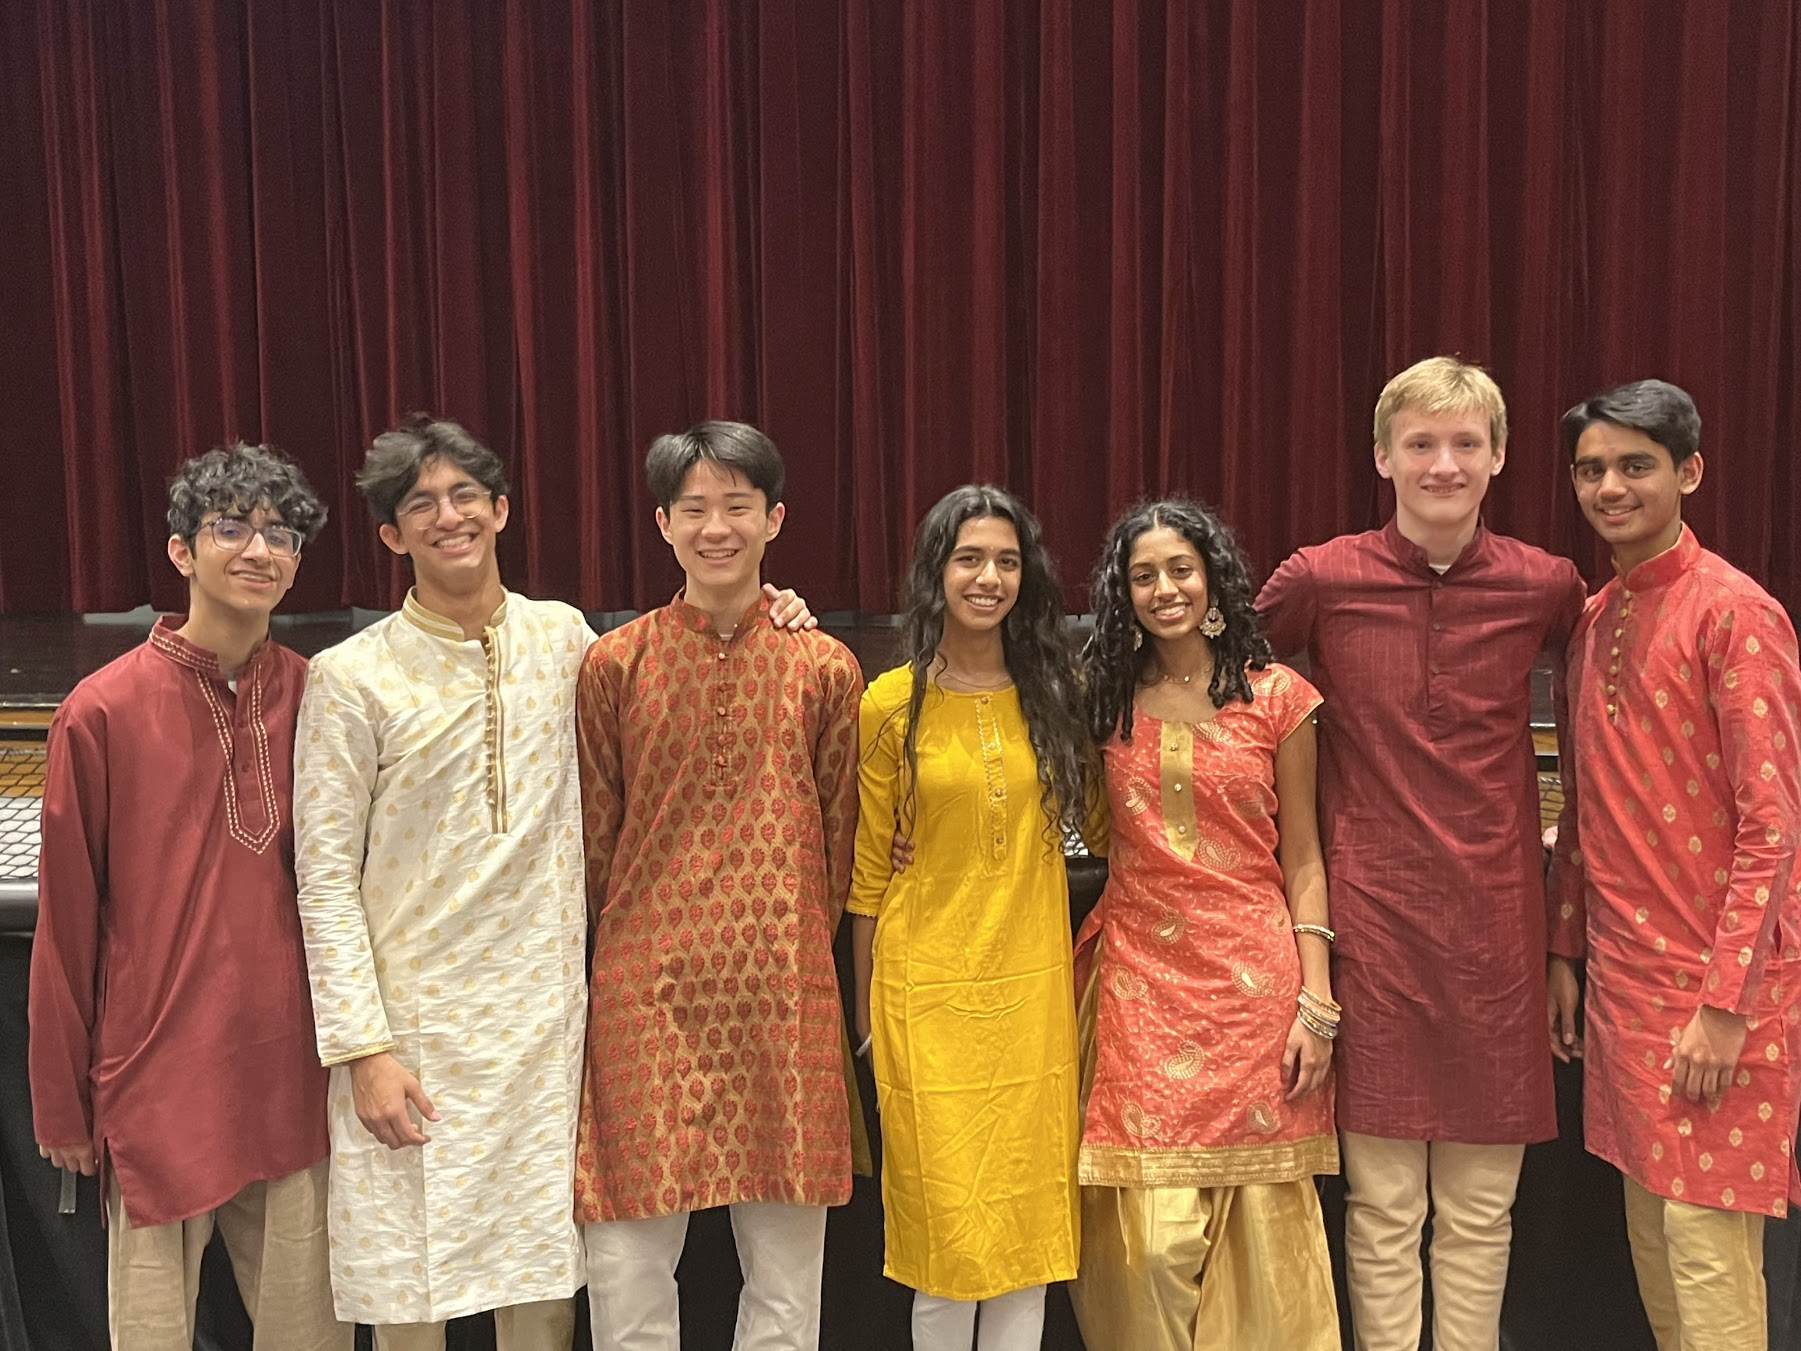
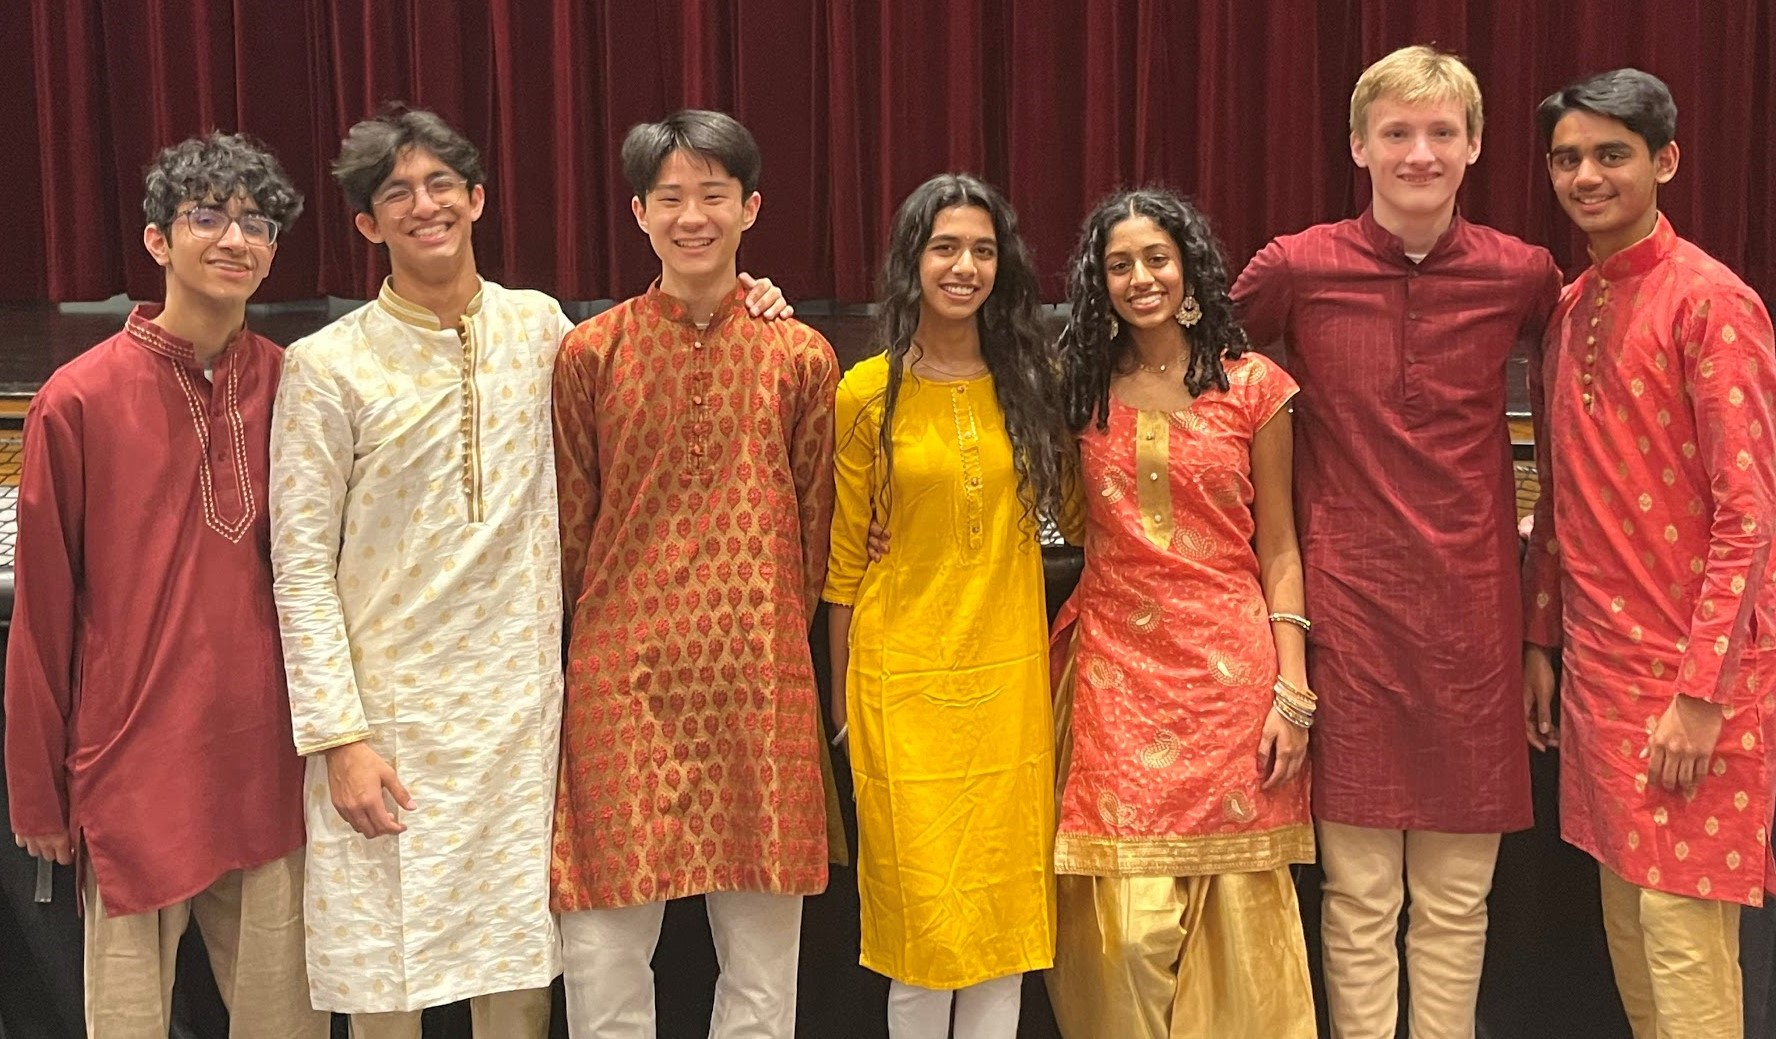
intro animation v1

diff --git a/basementPplWebsite/style.css b/basementPplWebsite/style.css
@@ -6,9 +6,9 @@ body {
   background-color: #fff;
   height: 100%;
   width: 100%;
-  background-image: linear-gradient(60deg, #ff0000, #ffa500, #ffff00);
+  background-image: linear-gradient(60deg, #ffff00, #ffa500, #ff0000);
   background-size: 600% 600%;
-  animation: bgAnimatedGradient 15s infinite linear;
+  animation: bgAnimatedGradient 10s infinite linear;
 }
 @keyframes bgAnimatedGradient {
   0% {
@@ -23,25 +23,51 @@ body {
 }
 h1 {
   text-align: center;
-  padding: 25%;
+  padding: 100%;
   margin: 0%;
   font-family: "roboto", sans-serif;
-  letter-spacing: 6px;
+  letter-spacing: 10px;
   font-size: 4vw;
   color: white;
 }
-p.title {
+.title {
   font-family: "Poppins", sans-serif;
   margin: 0;
   padding: 0;
   text-shadow: #fff;
   text-align: center;
   font-weight: bold;
-  font-size: 78px;
+  font-size: 100px;
+  position: relative;
+  bottom: 4720px;
 }
-.pic {
-  width: 900px;
-  border-radius: 25px;
-  float: left;
-  margin-right: 10px;
+.image__home {
+  display: block;
+  margin-left: auto;
+  margin-right: auto;
+  position: relative;
+  bottom: 3850px;
+  animation: piccrop 3s forwards;
+}
+
+@keyframes piccrop {
+  from {
+    border-radius: 5 px;
+    width: 100%;
+    height: auto;
+  }
+
+  to {
+    width: 65%;
+    border-radius: 50px;
+  }
+}
+
+html,
+body {
+  width: 100;
+  height: 100;
+  margin: 0;
+  padding: 0;
+  overflow-x: hidden;
 }

diff --git a/basementPplWebsite/index.html b/basementPplWebsite/index.html
@@ -19,13 +19,17 @@
       <title>the basement ppl</title>
     </head>
     <body>
+      <div class="bg-container"><h1>Book Now</h1></div>
+      <div>
+        <img
+          class="image__home"
+          src="Images/IMG_1302.jpg"
+          alt="Group Picture Not Loading"
+          width="100%"
+          height="auto"
+        />
+      </div>
       <p class="title">the basement ppl</p>
-      <div class="bg-container">
-        <h1>Book soon</h1>
-      </div>
-      <div class="pic">
-        <img src="Images/IMG_1302.jpg" />
-      </div>
     </body>
   </html>
 </html>
